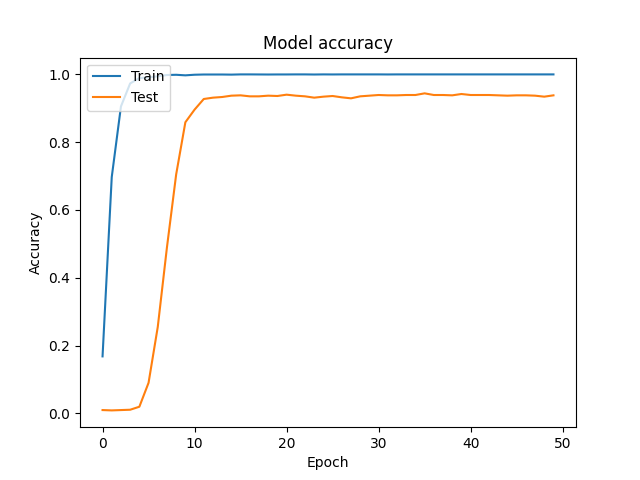
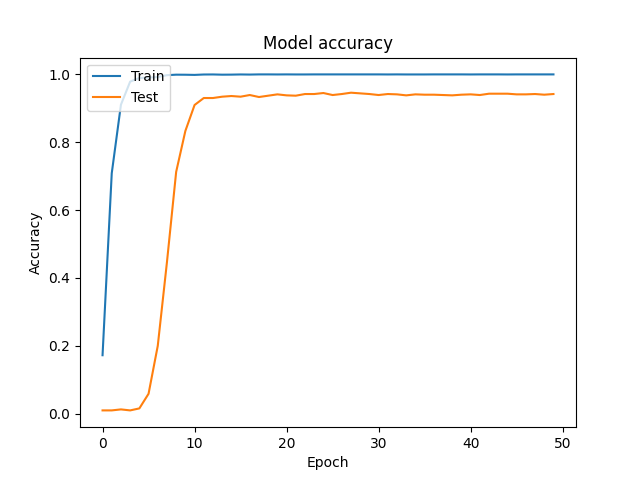
wip

diff --git a/trainer.py b/trainer.py
@@ -11,7 +11,7 @@ import tensorflow as tf
 from clr_callback import CyclicLR
 import tensorflow_datasets as tfds
 import tensorflow_hub as hub
-
+from processing import Processing
 
 np.random.seed(42)
 tf.random.set_seed(42)
@@ -63,37 +63,15 @@ if __name__ == '__main__':
     optimizer = models.OPTIMIZERS[args.opt]['get']()()
 
 
-
-    splits = ['test', 'validation', 'train']
-    splits, ds_info = tfds.load('oxford_flowers102', split=splits, with_info=True)
-    (ds_train, ds_validation, ds_test) = splits
-
-    train_preprocessed = ds_train.shuffle(SHUFFLE_BUFFER_SIZE).map(parse_image, num_parallel_calls=TF_AUTOTUNE).cache().batch(args.batch).prefetch(TF_AUTOTUNE)
-
-    test_preprocessed = ds_test.map(parse_image, num_parallel_calls=TF_AUTOTUNE).cache().batch(args.batch).prefetch(TF_AUTOTUNE)
-
-    validation_preprocessed = ds_validation.map(parse_image, num_parallel_calls=TF_AUTOTUNE).cache().batch(args.batch).prefetch(TF_AUTOTUNE)
+    train_preprocessed, test_preprocessed, validation_preprocessed, train_cardinality, validation_cardinality = Processing(target_size=target_size,
+                                                                                                                            batch_size=args.batch,
+                                                                                                                            shuffle=True, 
+                                                                                                                            brightness_delta=0, 
+                                                                                                                            flip=False, 
+                                                                                                                            rotation=0).get_dataset()
 
 
-    train_generator = processing.train_data_generator().flow_from_directory(directory=utils.get_path(config['paths']['train']),
-                                                                            batch_size=args.batch,
-                                                                            shuffle=True,
-                                                                            target_size=(target_size, target_size),
-                                                                            interpolation=config['training']['interpolation'],
-                                                                            class_mode=config['training']['mode'])
-
-    valid_generator = processing.test_data_generator().flow_from_directory(directory=utils.get_path(config['paths']['valid']),
-                                                                            batch_size=args.batch,
-                                                                            shuffle=True,
-                                                                            target_size=(target_size, target_size),
-                                                                            class_mode=config['training']['mode'])
-
-    test_generator = processing.test_data_generator().flow_from_directory(directory=utils.get_path(config['paths']['test']),
-                                                                            batch_size=args.batch,
-                                                                            shuffle=False,
-                                                                            target_size=(target_size, target_size),
-                                                                            class_mode=config['training']['mode'])
-
+    
     model.compile(loss=config['training']['loss'], optimizer=optimizer, metrics=['acc'])
 
     mcp_save_acc = ModelCheckpoint(utils.get_path(config['paths']['checkpoint']['accuracy'].format(args.arch)),
@@ -103,9 +81,8 @@ if __name__ == '__main__':
                                     save_best_only=True,
                                     monitor='val_loss', mode='min')
 
-    
-    step_size_train = np.ceil(train_generator.n / train_generator.batch_size)
-    step_size_valid = np.ceil(valid_generator.n / valid_generator.batch_size)
+    step_size_train = np.ceil(train_cardinality / args.batch)
+    step_size_valid = np.ceil(validation_cardinality / args.batch)
 
     # Define how many iterations are required to complete a learning rate cycle
     stepSize = args.step * step_size_train
@@ -116,7 +93,7 @@ if __name__ == '__main__':
                     step_size=stepSize)
 
     es = EarlyStopping(monitor='val_loss', 
-                        patience=EPOCHS//2, 
+                        patience=20, 
                         mode='min', 
                         #restore_best_weights=True, 
                         min_delta=0.005,
@@ -125,9 +102,9 @@ if __name__ == '__main__':
     history = model.fit(train_preprocessed,
                                   epochs=EPOCHS,
                                   verbose=1,
-                                  #steps_per_epoch=step_size_train,
+                                  steps_per_epoch=step_size_train,
                                   validation_data=validation_preprocessed,
-                                  #validation_steps=step_size_valid,
+                                  validation_steps=step_size_valid,
                                   callbacks=[es, clr, mcp_save_acc, mcp_save_loss],
                                   #workers=64,
                                   #use_multiprocessing=False,

diff --git a/processing.py b/processing.py
@@ -1,22 +1,64 @@
 import keras
-from keras_applications.resnext import preprocess_input
-from keras import preprocessing
+import utils
+import tensorflow as tf
+import tensorflow_datasets as tfds
+import tensorflow_addons as tfa
+import random
+import math
 
 
 
-
-def pre_processing(image):
-    return preprocess_input(image, backend=keras.backend, layers=keras.layers, models=keras.models, utils=keras.utils)
-
-def train_data_generator():
-    return preprocessing.image.ImageDataGenerator(
-        horizontal_flip=True,
-        brightness_range=[0.7, 1.3],
-        rotation_range=10,
-        #zoom_range = 0.1,
-        #fill_mode = 'reflect',
-        preprocessing_function=pre_processing)
+TF_AUTOTUNE = tf.data.AUTOTUNE
 
 
-def test_data_generator():
-    return preprocessing.image.ImageDataGenerator(preprocessing_function=pre_processing)
+class Processing:
+
+    def __init__(self, target_size, batch_size, shuffle=True, brightness_delta=0.3, flip=True, rotation=10):
+        self.target_size = target_size
+        self.batch_size = batch_size
+        self.shuffle = shuffle
+        self.brightness_delta = brightness_delta
+        self.flip = flip
+        self.rotation = math.floor(rotation * (math.pi / 180))
+
+
+    def get_dataset(self):
+        splits = ['test', 'validation', 'train']
+        splits, ds_info = tfds.load('oxford_flowers102', split=splits, with_info=True)
+        (ds_train, ds_validation, ds_test) = splits
+
+        train_cardinality = ds_train.cardinality().numpy()
+        validation_cardinality = ds_validation.cardinality().numpy()
+
+        # Train Datastore
+        train_preprocessed = ds_train
+
+        if self.shuffle:
+            train_preprocessed = ds_train.shuffle(train_cardinality)
+        
+        train_preprocessed = train_preprocessed.map(self.__parse_image__, num_parallel_calls=TF_AUTOTUNE)
+
+        if self.brightness_delta > 0:
+            train_preprocessed = train_preprocessed.map(lambda image, label: (tf.image.random_brightness(image, self.brightness_delta), label))
+
+        if self.flip:
+            train_preprocessed = train_preprocessed.map(lambda image, label: (tf.image.random_flip_left_right(image), label))
+
+        if self.rotation > 0:
+            train_preprocessed = train_preprocessed.map(lambda image, label: (tfa.image.transform_ops.rotate(image, random.randrange(-self.rotation, self.rotation)), label))
+
+
+        train_preprocessed = train_preprocessed.batch(self.batch_size).cache().prefetch(TF_AUTOTUNE)
+
+        test_preprocessed = ds_test.map(self.__parse_image__, num_parallel_calls=TF_AUTOTUNE).cache().batch(self.batch_size).prefetch(TF_AUTOTUNE)
+
+        validation_preprocessed = ds_validation.map(self.__parse_image__, num_parallel_calls=TF_AUTOTUNE).cache().batch(self.batch_size).prefetch(TF_AUTOTUNE)
+
+
+        return train_preprocessed, test_preprocessed, validation_preprocessed, train_cardinality, validation_cardinality
+
+
+    def __parse_image__(self, features):
+        image = features['image']
+        image = tf.image.resize(image, (self.target_size, self.target_size)) / 255.0
+        return image, features['label']

diff --git a/visualize.py b/visualize.py
@@ -71,10 +71,37 @@ class GradCAM:
 	def overlay_heatmap(self, heatmap, image, alpha):
 		
 		jet_heatmap = np.uint8(cm.jet(heatmap)[..., :3] * 255)
-		heatmap = cv2.applyColorMap(heatmap, cv2.COLORMAP_MAGMA)
 		output = cv2.addWeighted(image, alpha, jet_heatmap, 1 - alpha, 0)
 		return (jet_heatmap, output)
 
+
+class SaliencyMap:
+
+	def get_saliency_map(self, model, image, class_idx):
+		
+		with tf.GradientTape() as tape:
+			inputs =  tf.Variable(image, dtype=float)
+			tape.watch(inputs)
+			predictions = model(inputs)
+
+			loss = predictions[:, class_idx]
+
+			# Get the gradients of the loss w.r.t to the input image.
+			gradient = tape.gradient(loss, inputs)
+			gradient = tf.math.abs(gradient)
+
+			# take maximum across channels
+			gradient = tf.reduce_max(gradient, axis=-1)
+
+			# convert to numpy
+			gradient = gradient.numpy()
+
+			# normaliz between 0 and 1
+			min_val, max_val = np.min(gradient), np.max(gradient)
+			smap = (gradient - min_val) / (max_val - min_val + keras.backend.epsilon())
+
+			jet_saliency = np.uint8(cm.jet(smap[0])[..., :3] * 255)
+			return jet_saliency
 
 if __name__ == '__main__':
 	args = parse_arguments()
@@ -94,7 +121,7 @@ if __name__ == '__main__':
 
 	img_path = utils.get_path('/home/firaja/Downloads/moon.jpg')
 	image = cv2.imread(img_path)	
-
+	image = cv2.cvtColor(image, cv2.COLOR_BGR2RGB)
 	image = cv2.resize(image, (target_size, target_size))
 	image = tf.expand_dims(image, axis=-1)
 	image = tf.divide(image, 255)
@@ -110,14 +137,20 @@ if __name__ == '__main__':
 	for i in indexes:
 		print('{}({}): {}'.format(utils.LABELS[i], i+1, predictions[i]))
 
-	icam = GradCAM(model, np.argmax(predictions), None) 
+	icam = GradCAM(model, np.argmax(predictions), None)
 	heatmap = icam.compute_heatmap(image)
 	heatmap = cv2.resize(heatmap, (target_size, target_size))
 
+	smap = SaliencyMap().get_saliency_map(model, image, np.argmax(predictions)) 
+
 	image = cv2.imread(img_path)
 	image = cv2.resize(image, (target_size, target_size))
+	image = cv2.cvtColor(image, cv2.COLOR_BGR2RGB)
 
-	(heatmap, output) = icam.overlay_heatmap(heatmap, image, 0.3)
+
+	(heatmap, output) = icam.overlay_heatmap(heatmap, image, 0.4)
+
+	
 
 
 	fig, ax = plt.subplots(1, 3)
@@ -126,4 +159,12 @@ if __name__ == '__main__':
 	ax[0].imshow(heatmap)
 	ax[1].imshow(image)
 	ax[2].imshow(output)
+	#ax[3].imshow(smap)
+	plt.show()
+
+
+	fig, axes = plt.subplots(1,2,figsize=(14,5))
+	axes[0].imshow(image)
+	i = axes[1].imshow(smap,alpha=0.8)
+	fig.colorbar(i)
 	plt.show()

diff --git a/learningratefinder.py b/learningratefinder.py
@@ -8,7 +8,7 @@ import tensorflow as tf
 import tempfile
 import argparse
 import utils
-import processing
+from processing import Processing
 import models
 
 CLRS = ['triangular', 'triangular2', 'exp']
@@ -176,22 +176,24 @@ if __name__ == '__main__':
     target_size = architecture.size
     optimizer = models.OPTIMIZERS[args.opt]['get']()()
 
-    train_generator = processing.train_data_generator().flow_from_directory(directory=utils.get_path(config['paths']['train']),
-                                                                            batch_size=args.batch,
-                                                                            shuffle=True,
-                                                                            target_size=(target_size, target_size),
-                                                                            interpolation=config['training']['interpolation'],
-                                                                            class_mode=config['training']['mode'])
+    train_preprocessed, _, _, train_cardinality, _ = Processing(target_size=target_size,
+                                                                batch_size=args.batch,
+                                                                shuffle=True, 
+                                                                brightness_delta=0, 
+                                                                flip=False, 
+                                                                rotation=0).get_dataset()
+
+    step_size_train = np.ceil(train_cardinality / args.batch)
 
     model.compile(loss=config['training']['loss'], optimizer=optimizer, metrics=['acc'])
 
     print("[INFO] finding learning rate...")
     lrf = LearningRateFinder(model)
     lrf.find(
-        train_generator,
+        train_preprocessed,
         1e-10, 1e-1,
         epochs=None,
-        stepsPerEpoch=np.ceil((train_generator.n / float(args.batch))),
+        stepsPerEpoch=step_size_train,
         batchSize=args.batch,
         use_multiprocessing=False)
 
